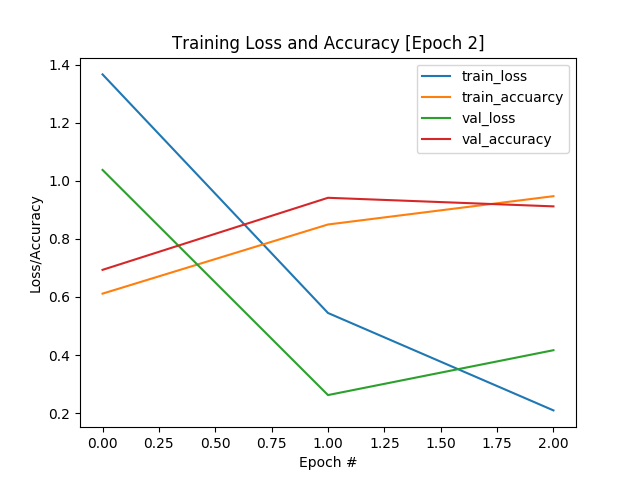
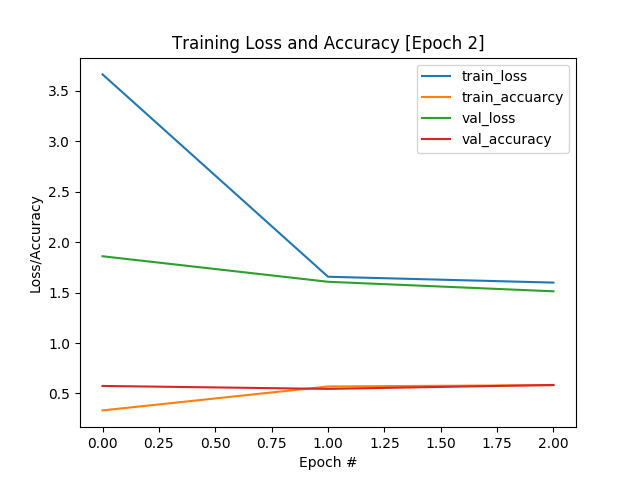
nonsence results after training with embeddings

diff --git a/src/feminatives.py b/src/feminatives.py
@@ -18,7 +18,7 @@ from pickle import load
 def get_chars(words, add_startend = False):    
     for i,word in enumerate(words):
         if add_startend:
-            word = '\t' + word + '\n'
+            word = '\t' + word
             words[i] = word        
     return words
     
@@ -51,9 +51,9 @@ def words_to_indices(X, word_to_index, max_len):
 def main():
     num_samples = -1
     batch_size = 32
-    epochs = 10
+    epochs = 50
     latent_dim = 265 # units in LSTM
-    validation_split = 0.01
+    validation_split = 0.1
     data_train = pd.read_csv('../data_professions/professions_train.csv')
     data_test = pd.read_csv('../data_professions/professions_train.csv')
 
@@ -75,8 +75,8 @@ def main():
     #characters.add('\0')
     input_words = get_chars(input_words)
     # adding a 'start char'    
-    decoder_words = get_chars(target_words)
-    target_words = get_chars(target_words, True)
+    decoder_words = get_chars(target_words, True)
+    target_words = get_chars(target_words,)
     test_words = get_chars(test_words)
     #characters = sorted(list(characters))
     
@@ -84,21 +84,27 @@ def main():
     encoder_seq_length = max([len(txt) for txt in input_words+test_words])
     decoder_seq_length = max([len(txt) for txt in target_words])
     
-    
-    encoder_input_data = np.zeros((len(input_words),encoder_seq_length,vocab_size),dtype='float32')
-    decoder_input_data = np.zeros((len(input_words),decoder_seq_length,vocab_size),dtype='float32')
+    encoder_input_data = []
+    #encoder_input_data = np.zeros((len(input_words),encoder_seq_length,vocab_size),dtype='float32')
+    decoder_input_data = []
+    #decoder_input_data = np.zeros((len(input_words),decoder_seq_length,vocab_size),dtype='float32')
     decoder_target_data = np.zeros((len(input_words),decoder_seq_length,vocab_size),dtype='float32')    
-    encoder_input_data_test = np.zeros((len(test_words),encoder_seq_length,vocab_size),dtype='float32')
+    encoder_input_data_test = []
+    #encoder_input_data_test = np.zeros((len(test_words),encoder_seq_length,vocab_size),dtype='float32')
     
     for i, word in enumerate(input_words):
         seq = [char_to_index[char] for char in word]
         seq += [char_to_index['\n'] for i in range(len(seq),encoder_seq_length)]
-        encoder_input_data[i,:,:] = to_categorical(np.array(seq), num_classes=vocab_size)
-        
+        #encoder_input_data[i,:,:] = to_categorical(np.array(seq), num_classes=vocab_size)
+        encoder_input_data.append(seq)
+    encoder_input_data = np.array(encoder_input_data)
+            
     for i, word in enumerate(decoder_words):
         seq = [char_to_index[char] for char in word]
         seq += [char_to_index['\n'] for i in range(len(seq),decoder_seq_length)]
-        decoder_input_data[i,:,:] = to_categorical(np.array(seq), num_classes=vocab_size)
+        decoder_input_data.append(seq)
+        #decoder_input_data[i,:,:] = to_categorical(np.array(seq), num_classes=vocab_size)
+    decoder_input_data = np.array(decoder_input_data)
     
     for i, word in enumerate(target_words):
         seq = [char_to_index[char] for char in word]
@@ -108,8 +114,12 @@ def main():
     for i, word in enumerate(test_words):
         seq = [char_to_index[char] for char in word]
         seq += [char_to_index['\n'] for i in range(len(seq),encoder_seq_length)]
-        encoder_input_data_test[i,:,:] = to_categorical(np.array(seq), num_classes=vocab_size)
+        #encoder_input_data_test[i,:,:] = to_categorical(np.array(seq), num_classes=vocab_size)
+        encoder_input_data_test.append(seq)
+    encoder_input_data_test = np.array(encoder_input_data_test)
     
+    print("Input encoder shape: {}".format(np.array(encoder_input_data).shape))
+    print("Input decoder shape: {}".format(np.array(decoder_input_data).shape))
     
     '''
     vocab_size = len(characters)
@@ -151,12 +161,17 @@ def main():
         
     '''
     # define the input ans process
-    encoder_inputs = Input(shape=(None, vocab_size))   
+    #encoder_inputs = Input(shape=(1,))
+    #encoder_inputs = Input(shape=(None, 1))
+    #encoder_inputs = Input(shape=(None, encoder_seq_length))
+    encoder_inputs = Input(shape=(encoder_seq_length,))   
     
     embedding_layer = pretrained_embedding_layer(char_to_vec_map, char_to_index)
     
-    encoder1 = Bidirectional(LSTM(latent_dim,return_sequences=True))
-    encoder = Bidirectional(LSTM(latent_dim, return_state=True))
+    encoder1 = Bidirectional(LSTM(units=latent_dim,return_sequences=True))
+    encoder = Bidirectional(LSTM(units=latent_dim, return_state=True))
+    #encoder1 = LSTM(latent_dim,return_sequences=True)
+    #encoder = LSTM(latent_dim, return_state=True)
     encoder_outputs, state_h_f, state_c_f, state_h_b, state_c_b = encoder(Dropout(0.25)(encoder1(embedding_layer(encoder_inputs))))
     # discard output, leave state only
     state_h = Concatenate()([state_h_f, state_h_b])
@@ -164,10 +179,13 @@ def main():
     encoder_states = [state_h, state_c]
     
     # decoder
-    decoder_inputs = Input(shape=(None,vocab_size))
+    #decoder_inputs = Input(shape=(1))    
+    #decoder_inputs = Input(shape=(1,))    
+    #decoder_inputs = Input(shape=(None, decoder_seq_length))    
+    decoder_inputs = Input(shape=(decoder_seq_length,))
     
-    decoder_lstm1 = LSTM(latent_dim * 2, return_sequences=True, return_state=True)
-    decoder_lstm = LSTM(latent_dim * 2, return_sequences=True, return_state=True)
+    decoder_lstm1 = LSTM(units=latent_dim * 2, return_sequences=True, return_state=True)
+    decoder_lstm = LSTM(units=latent_dim * 2, return_sequences=True, return_state=True)
     decoder_outputs, _, _ = decoder_lstm(decoder_lstm1(embedding_layer(decoder_inputs), initial_state=encoder_states))
     decoder_dense = Dense(vocab_size, activation='softmax')
     decoder_outputs = decoder_dense(decoder_outputs)
@@ -215,11 +233,13 @@ def main():
     encoder_model = Model(encoder_inputs, encoder_states)
     plot_model(encoder_model,to_file='../model_images/encoder_model_graph.png')
     
+    print(np.array(encoder_states).shape)
+    
     decoder_state_input_h = Input(shape=(latent_dim*2,))
     decoder_state_input_c = Input(shape=(latent_dim*2,))
     decoder_state_inputs = [decoder_state_input_h, decoder_state_input_c]
     #decoder_outputs, state_h_f, state_c_f, state_h_b, state_c_b = decoder_lstm(decoder_inputs, initial_state = decoder_state_inputs)
-    decoder_outputs, state_h, state_c = decoder_lstm(decoder_lstm1(decoder_inputs, initial_state = decoder_state_inputs))
+    decoder_outputs, state_h, state_c = decoder_lstm(decoder_lstm1(embedding_layer(decoder_inputs), initial_state = decoder_state_inputs))
     #state_h = Concatenate()([state_h_f, state_h_b])
     #state_c = Concatenate()([state_c_f, state_c_b])
     decoder_states = [state_h, state_c]
@@ -228,19 +248,26 @@ def main():
     
     plot_model(decoder_model,to_file='../model_images/decoder_model_graph.png')
     
-    reverse_char_index = dict((i, char) for char, i in token_index.items())
+    reverse_char_index = dict((i, char) for char, i in char_to_index.items())
     
     def decode_word(input_word):
+        #print(np.array(input_word).shape)
         states_value = encoder_model.predict(input_word)
         
-        target_seq = np.zeros((1,1,vocab_size))
-        target_seq[0,0,token_index['\t']] = 1.
+        #target_seq = np.zeros(decoder_seq_length)
+        #target_seq[0] = char_to_index['\t']
+        #print(target_seq.shape) 
+        #target = char_to_index[input_word[0]]
+        
+        target_seq = np.zeros((1,decoder_seq_length))
+        target_seq[0,0] = char_to_index['\t']
         
         stop_condition = False
         decoded_word = ''
+        cntr = 1
         while not stop_condition:
             output_tokens, h, c = decoder_model.predict([target_seq] + states_value)
-            
+            #print(output_tokens)
             sampled_token_index = np.argmax(output_tokens[0, -1, :])
             sampled_char = reverse_char_index[sampled_token_index]
             decoded_word += sampled_char
@@ -248,30 +275,34 @@ def main():
             if(sampled_char == '\n' or len(decoded_word) > decoder_seq_length):
                 stop_condition = True
                 
-            target_seq = np.zeros((1,1, vocab_size))
-            target_seq[0,0,sampled_token_index] = 1.
+            target_seq[0,cntr] = sampled_token_index            
+            #target_seq = np.zeros((1,1, vocab_size))
+            #target_seq[0,0,sampled_token_index] = 1.
+            #target_seq = np.zeros(decoder_seq_length)
+            #target_seq[0] = char_to_index[sampled_char]
             
             states_value = [h, c]
         
         return decoded_word
     
     print("++ Part of train set ++")
-    for ind in range(int(len(input_words)*(1-2*validation_split)),int(len(input_words)*(1-validation_split))):
-        input_seq = encoder_input_data[ind:ind+1]
-        decoded_word =decode_word(input_seq)                    
-        print("{} -> {}".format(input_words[ind],decoded_word))    
+    for ind in range(0,int(len(input_words)*(1-validation_split))):
+        #input_seq = encoder_input_data[ind:ind+1]
+        #decoded_word =decode_word(input_seq)                    
+        decoded_word =decode_word(encoder_input_data[ind:ind+1])                    
+        print("{} -> {} {}".format(input_words[ind],decoded_word, len(decoded_word)))    
     
     print("++ Validation set ++")
     for ind in range(int(len(input_words)*(1-validation_split)),len(input_words)):
         input_seq = encoder_input_data[ind:ind+1]
         decoded_word =decode_word(input_seq)                    
-        print("{} -> {}".format(input_words[ind],decoded_word))
-    
+        print("{} -> {} {}".format(input_words[ind],decoded_word,len(decoded_word)))
+    '''
     print("++++++++ Test set +++++++++")
     for ind in range(len(test_words)):
         input_seq = encoder_input_data_test[ind:ind+1]
         decoded_word =decode_word(input_seq)                    
-        print("{} -> {}".format(test_words[ind],decoded_word))
-    
+        print("{} -> {} {}".format(test_words[ind],decoded_word,len(decoded_word)))
+    '''
 if __name__ == '__main__':
     main()

diff --git a/src/learn_char_embeddings.py b/src/learn_char_embeddings.py
@@ -27,16 +27,20 @@ print('Loading data...')
 in_filename = '../data_embeddings/WaP_I_char_sequences.txt'
 raw_text = load_doc(in_filename)
 lines = raw_text.split('\n')
+print("Loaded {} lines of data".format(len(lines)))
 
 # integer encode sequences of characters
 chars = sorted(list(set(raw_text)))
 mapping = dict((c, i) for i, c in enumerate(chars))
+print(mapping)
 sequences = list()
 for line in lines:
+    #print(line)
     # integer encode line
-    if len(line) < maxlen+1 :
+    if len(line) != maxlen+1 :
         continue
     encoded_seq = [mapping[char] for char in line]
+    #print(encoded_seq)
     # store
     sequences.append(encoded_seq)
  
@@ -46,7 +50,7 @@ print('Vocabulary Size: %d' % vocab_size)
  
 # separate into input and output
 sequences = array(sequences)
-#print(sequences)
+print(sequences.shape)
 X, y = sequences[:,:-1], sequences[:,-1]
 #sequences = [to_categorical(x, num_classes=vocab_size) for x in X]
 #X = array(sequences)

diff --git a/src/prepare_date_for_embeddings.py b/src/prepare_date_for_embeddings.py
@@ -40,7 +40,7 @@ def main():
         #print(w)
         for i in range(len_seq, len(w)):
             seq = w[i-len_seq:i+1]
-            print(seq)
+            #print(seq)
             sequences.append(seq)
 
 
